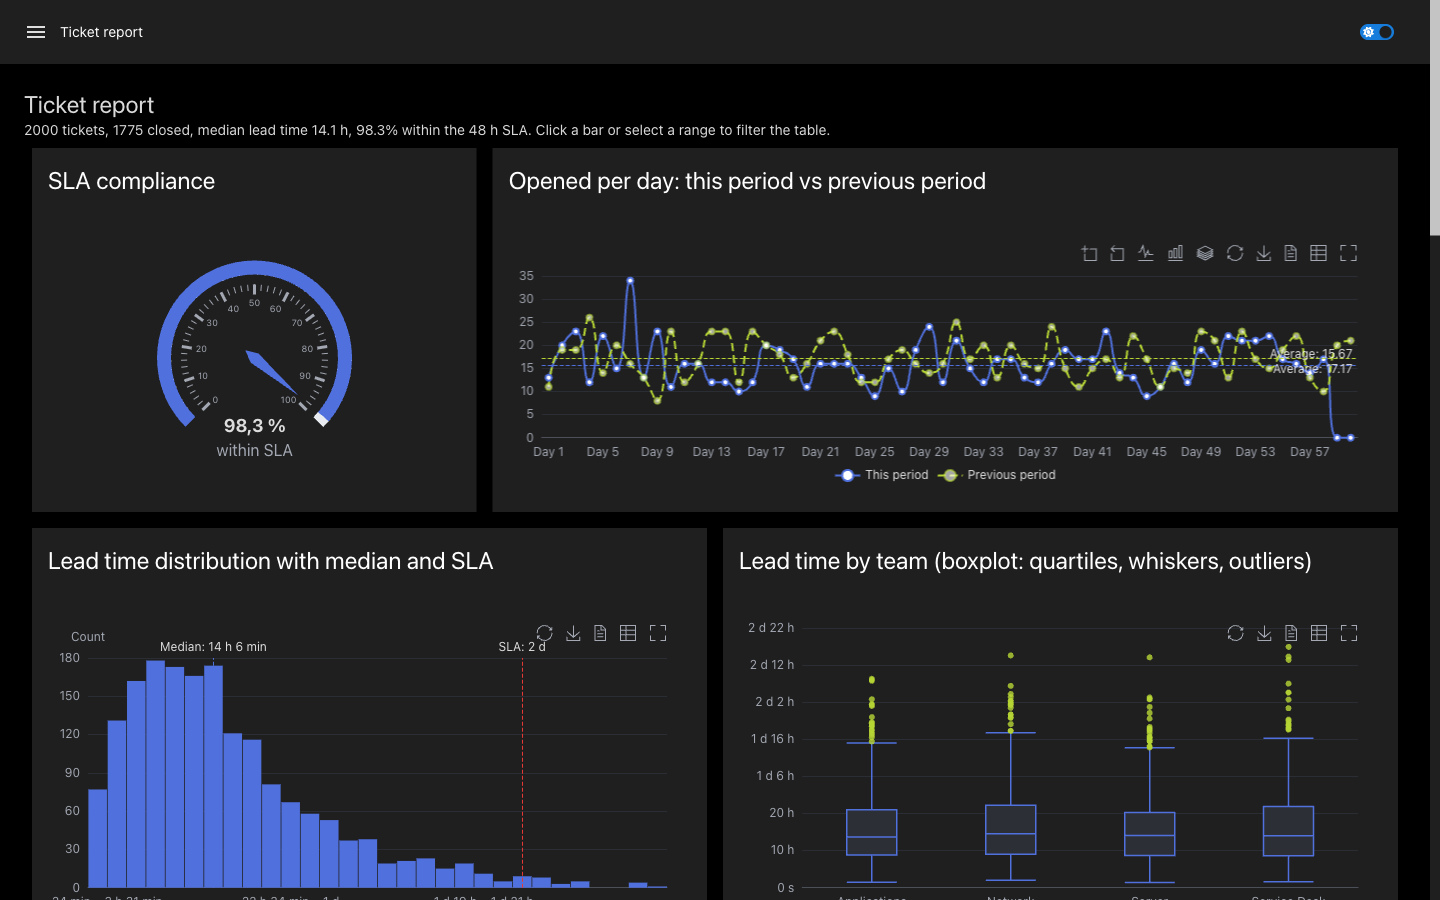
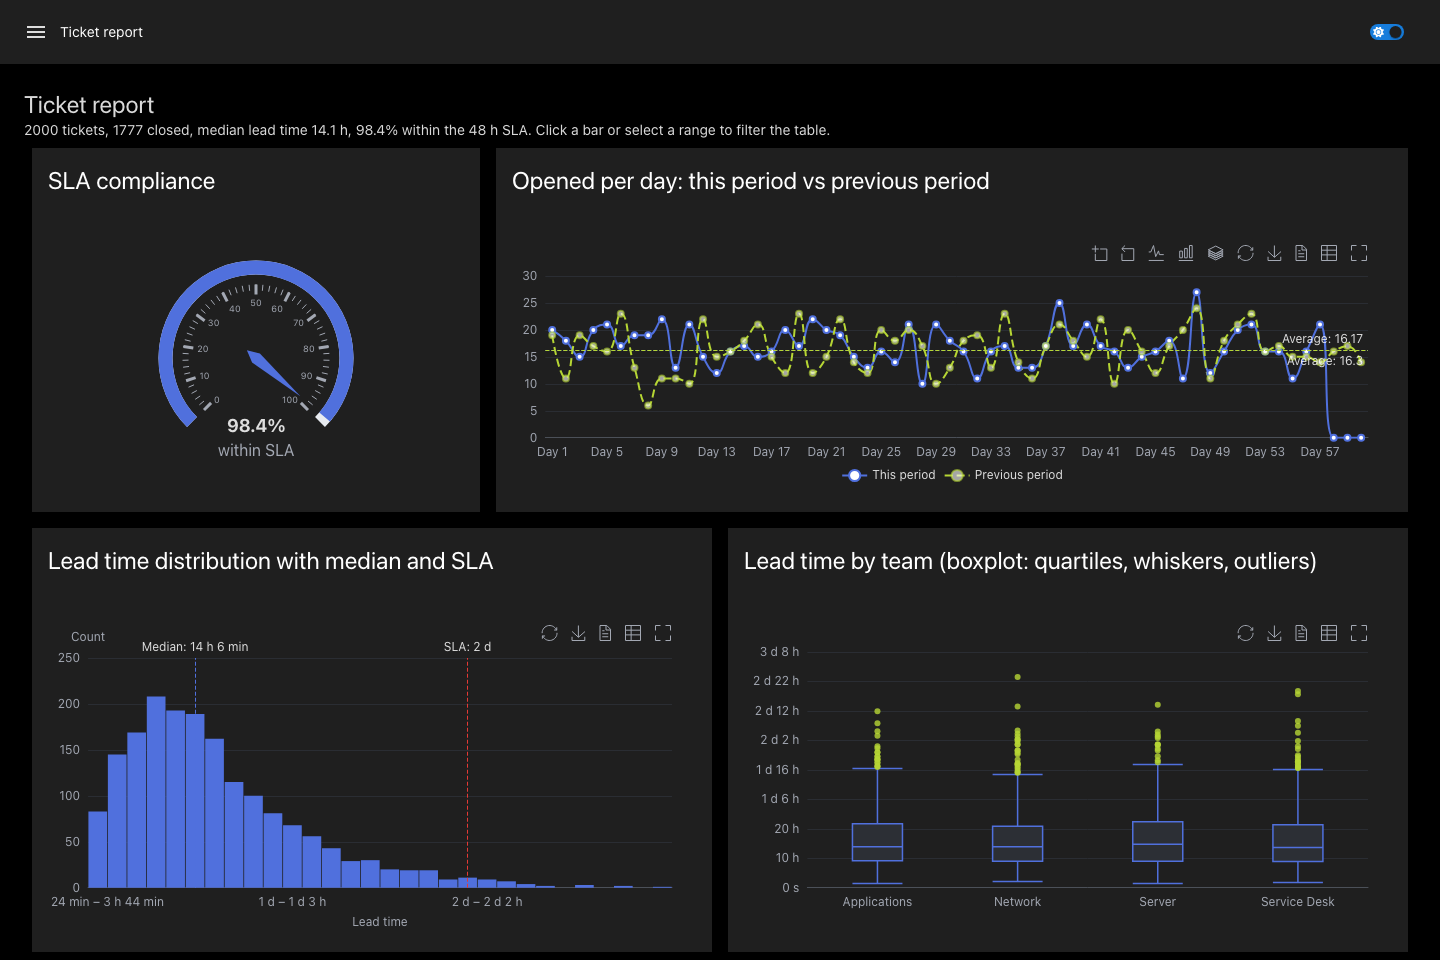
docs(demo): light and dark screenshots of the ECharts showcase app (#232)
* docs(demo): light and dark screenshots of the ECharts showcase app

docs/demo.md showed three single screenshots of the ECharts showcase app.
They are now light/dark pairs with #only-light/#only-dark, taken from
New-UDEChartShowcase on a PSU instance. Each shot ends at a card's bottom,
so no chart is cut.

docs/site/screenshots.mjs takes them when PSU_ECHARTS_DEMO_URL is set: the
app's theme switch, a fixed 1440 px window, and two identical shots in a row
before saving, so the charts are drawn and still. The screenshot test no
longer allows singles.

Refs #213

* test(browser): one helper that waits for a page's charts

The showcase spec and the showcase screenshots both waited for a page to
stop adding charts. tests/browser/echarts-page.mjs now holds that wait once.
The screenshot clip counts the card's bottom on the page, not in the window,
and names the window width once. The development table names the three
screenshot pairs.

Refs #213

---------

diff --git a/tests/js/screenshots.test.js b/tests/js/screenshots.test.js
@@ -23,10 +23,9 @@ const files = [
     ...readdirSync(join(root, "assets")).filter((name) => name.startsWith("screenshot-")).map((name) => `assets/${name}`),
 ];
 
-// Single screenshots of the ECharts showcase app (docs/demo.md). Their partners need new screenshots
-// from the app on a PowerShell Universal instance: #213. The site shows them without a theme fragment,
-// so they stay visible in both themes. Remove an entry when its partner is there; the test fails until then.
-const SINGLES = new Set(["assets/screenshot-data-platform-dark.png", "assets/screenshot-ticket-report-dark.png", "assets/screenshot-service-review-light.png"]);
+// Single screenshots, shown in both themes without a theme fragment. None at present; an entry needs a
+// reason and an issue for its partner. The test fails once an entry has its partner or is gone.
+const SINGLES = new Set([]);
 
 /**
  * The repository path an image address of `page` points to, or null for an image elsewhere (a badge).

diff --git a/docs/demo.md b/docs/demo.md
@@ -30,11 +30,14 @@ asset 360), calendars, intraday charts with axis breaks, public data, layouts, t
 live data and a benchmark. All data is generated with a fixed seed; "Public data" calls public web
 APIs from the PSU server.
 
-![Data platform page of the showcase app: coverage heatmap of source systems and assets per number of sources](assets/images/screenshot-data-platform-dark.png)
+![Data platform page of the showcase app in the light theme: coverage heatmap of source systems per asset class, and assets per number of sources](assets/images/screenshot-data-platform-light.png#only-light)
+![Data platform page of the showcase app in the dark theme: coverage heatmap of source systems per asset class, and assets per number of sources](assets/images/screenshot-data-platform-dark.png#only-dark)
 
-![Ticket report page: SLA gauge, opened per day against the previous period, lead time histogram, boxplot per team](assets/images/screenshot-ticket-report-dark.png)
+![Ticket report page in the light theme: SLA gauge, opened per day against the previous period, lead time histogram, boxplot per team](assets/images/screenshot-ticket-report-light.png#only-light)
+![Ticket report page in the dark theme: SLA gauge, opened per day against the previous period, lead time histogram, boxplot per team](assets/images/screenshot-ticket-report-dark.png#only-dark)
 
-![Service review page: KPI matrix of sparklines per customer](assets/images/screenshot-service-review-light.png)
+![Managed services page in the light theme: service review, a KPI matrix of sparklines per customer](assets/images/screenshot-service-review-light.png#only-light)
+![Managed services page in the dark theme: service review, a KPI matrix of sparklines per customer](assets/images/screenshot-service-review-dark.png#only-dark)
 
 ## Before you share the app
 

diff --git a/docs/development/index.md b/docs/development/index.md
@@ -65,6 +65,7 @@ of these sections; `tests/js/llms-sections.test.js` fails otherwise.
 | The pivot report on a page | Drawn into a shadow root of its placeholder, with the module's stylesheets inside it, so the page's typography stays outside. |
 | The screenshots of the README and the start page (`echarts-weather-*`, `perspective-weather-*`, `pivot-weather-*`) | `node docs/site/screenshots.mjs <site url>` on the built and served site, light and dark, into `docs/assets/`. |
 | The Pivot showcase screenshots (`pivot-showcase-*`) | `PSU_PIVOT_DEMO_URL=<app url> node docs/site/screenshots.mjs` against `New-UDPivotShowcase` on a PSU instance, light and dark, into `docs/assets/`. |
+| The ECharts showcase screenshots (`screenshot-ticket-report-*`, `screenshot-data-platform-*`, `screenshot-service-review-*`) | `PSU_ECHARTS_DEMO_URL=<app url> node docs/site/screenshots.mjs` against `New-UDEChartShowcase` on a PSU instance, light and dark, into `assets/`. |
 
 ## Browser tests on PSU
 
